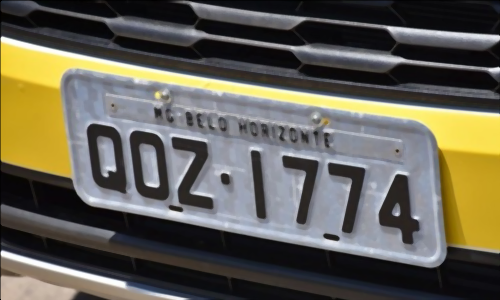
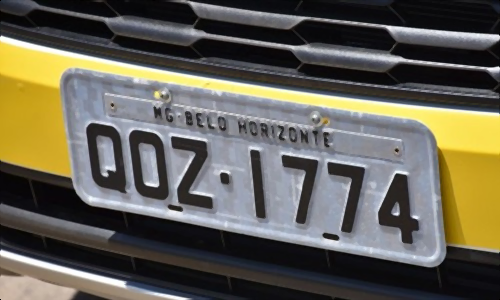
Filtro mediana

diff --git a/q5.py b/q5.py
@@ -6,8 +6,8 @@ def mediana ():
 
     imagem = mpimg.imread("q5Test/Detran_Minas-Gerais.jpg")
     #tamanho da mascara
-    m = 5
-    n = 5
+    m = 3
+    n = 3
     #pegando o tamanho da imagem
     A, L, rgb = imagem.shape
     #matriz pra armazenar a saida
@@ -28,13 +28,17 @@ def mediana ():
     for y in range (exty , A+exty):
         for x in range (extx , L +extx):
             
-            valoresR = matrizExt[y-exty : y+exty, x-extx : x+extx, 0]
-            valoresG = matrizExt[y-exty : y+exty, x-extx : x+extx, 1]
-            ValoresB = matrizExt[y-exty : y+exty, x-extx : x+extx , 2]
+            valoresR = matrizExt[y-exty : y+exty + 1, x-extx : x+extx + 1, 0]
+            valoresG = matrizExt[y-exty : y+exty + 1, x-extx : x+extx + 1, 1]
+            ValoresB = matrizExt[y-exty : y+exty + 1, x-extx : x+extx + 1, 2]
+          
+            if valoresR.shape[0]* valoresR.shape[1] == 4*2:
+                print(valoresR.shape)
 
-            medianaR = np.median(valoresR)
-            medianaG = np.median(valoresG)
-            medianaB = np.median(ValoresB)
+            medianaR = int(np.median(valoresR))
+            medianaG = int(np.median(valoresG))
+            medianaB = int(np.median(ValoresB))
+             
 
             filtroMediana[y -exty,x -extx,0] = medianaR
             filtroMediana[y -exty,x -extx,1] = medianaG
